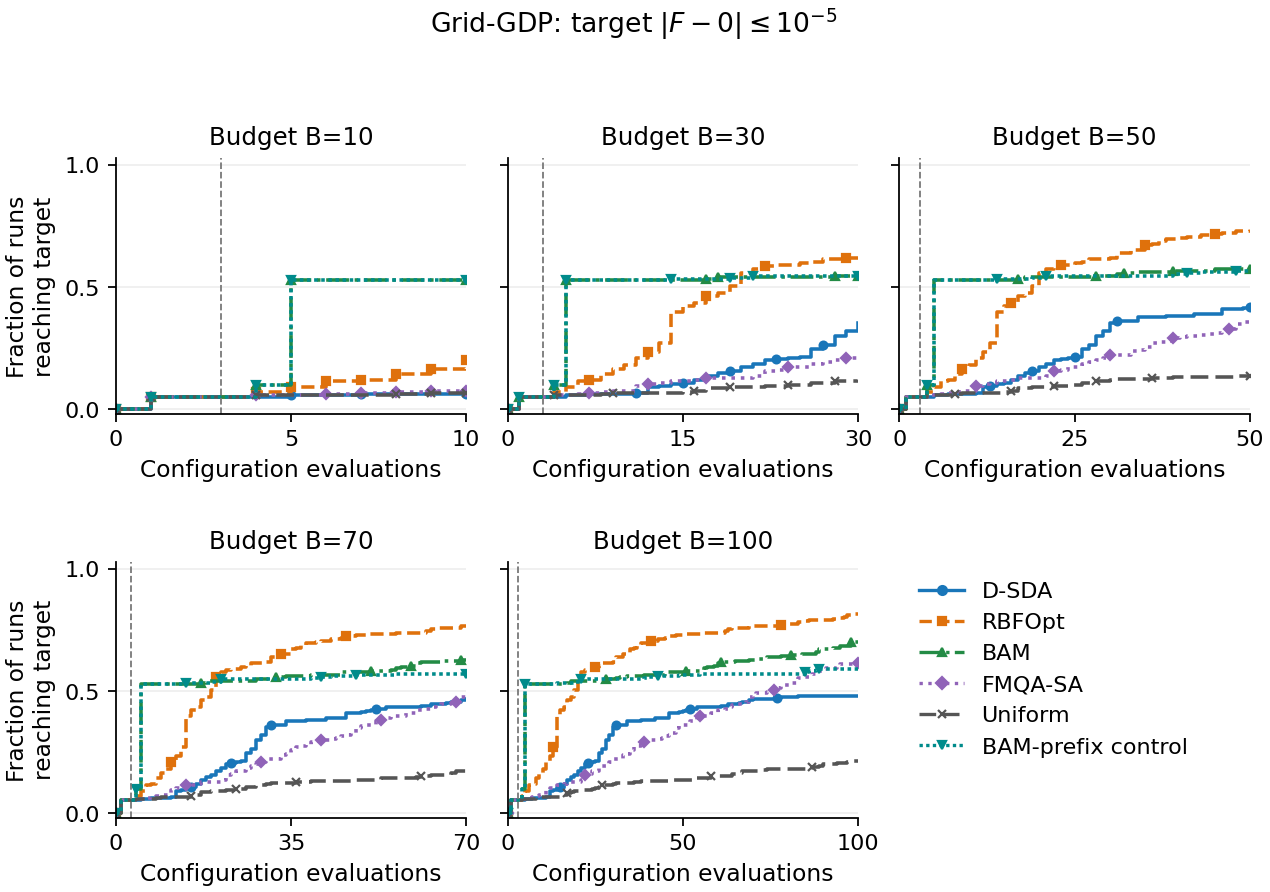
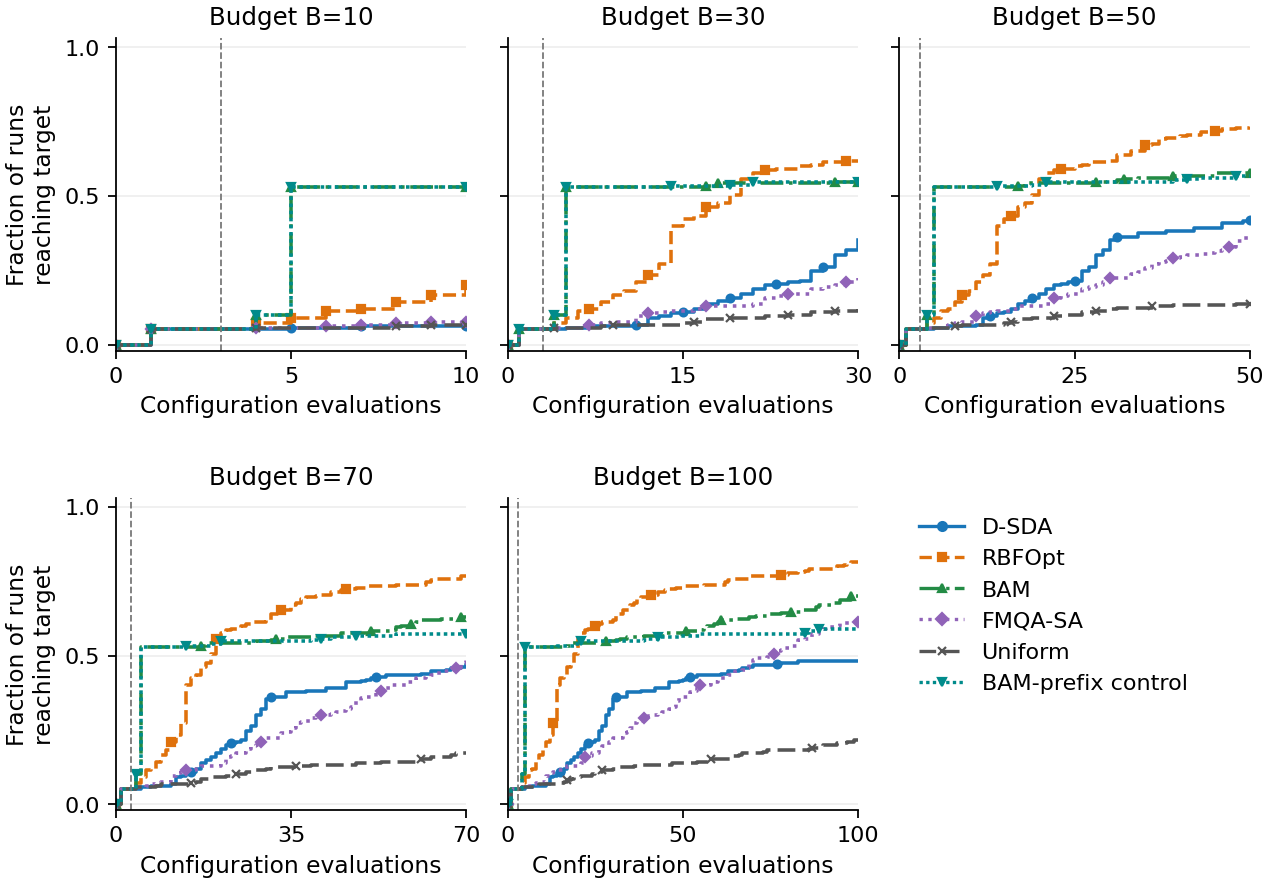
Remove the title inside the Grid evaluation figure

diff --git a/review_comparison/grid_presentation.py b/review_comparison/grid_presentation.py
@@ -127,8 +127,7 @@ def render(curves, out):
         handles = [Line2D([], [], color=m.COLOR[k], ls=m.STYLE[k], marker=m.MARK[k],
                           ms=4, lw=1.5, label=m.LABEL[k]) for k in m.GRID]
         axs.flat[-1].legend(handles=handles, loc="upper left", frameon=False, fontsize=10)
-        fig.suptitle(r"Grid-GDP: target $|F-0|\leq 10^{-5}$", fontsize=12)
-        fig.tight_layout(rect=(0, 0, 1, .95), h_pad=1.8, w_pad=.8)
+        fig.tight_layout(h_pad=1.8, w_pad=.8)
         name = out / "figure_B_grid_evaluation_profiles"
         fig.savefig(name.with_suffix(".pdf"), bbox_inches="tight", pad_inches=.04,
                     metadata={"CreationDate": None, "ModDate": None})
@@ -156,7 +155,8 @@ def build(directory, out):
 This is a presentation update using completed experiments; no searches or solvers are run.
 The input is the archived D-SDA publication analysis from 28 October 2026.
 Its input hashes, all 6,300 primary Grid run slots, and all 30 evaluation curves are verified before rendering.
-The figure retains every archived curve coordinate and method style, labels configuration evaluations and the target explicitly, and removes the prefix shading and legend notes.
+The figure retains every archived curve coordinate and method style, clarifies the axis labels, and removes the prefix shading and legend notes.
+The target is specified in the manuscript caption, without a title inside the figure.
 The target is agreement with the normalized reference zero within an absolute tolerance of 1e-5.
 
 The cost table uses all 210 runs per method at B=100, including target misses.

diff --git a/docs/grid_presentation_update_20261029.md b/docs/grid_presentation_update_20261029.md
@@ -1,6 +1,7 @@
 # Grid figure and cost-table review update
 
-David's Grid figure comment is addressed by explicit axis labels and the normalized target, removal of the prefix shading and legend notes, and a caption linked to the existing definitions.
+David's Grid figure comment is addressed by explicit axis labels, removal of the prefix shading and legend notes, and a caption linked to the existing definitions.
+The normalized target is stated in the caption, without a title inside the figure.
 His Grid cost-table comment is addressed by reporting Q50 [Q25, Q75] for each time component and defining the target and configuration-evaluation cost in the caption.
 The [new presentation outputs](../results/grid_presentation_20261029/README.md) use the [existing D-SDA publication records](../results/dsda_publication_20261028/README.md).
 The original analysis code, execution archives, results, and manifests are unchanged.

diff --git a/results/grid_presentation_20261029/README.md b/results/grid_presentation_20261029/README.md
@@ -3,7 +3,8 @@
 This is a presentation update using completed experiments; no searches or solvers are run.
 The input is the archived D-SDA publication analysis from 28 October 2026.
 Its input hashes, all 6,300 primary Grid run slots, and all 30 evaluation curves are verified before rendering.
-The figure retains every archived curve coordinate and method style, labels configuration evaluations and the target explicitly, and removes the prefix shading and legend notes.
+The figure retains every archived curve coordinate and method style, clarifies the axis labels, and removes the prefix shading and legend notes.
+The target is specified in the manuscript caption, without a title inside the figure.
 The target is agreement with the normalized reference zero within an absolute tolerance of 1e-5.
 
 The cost table uses all 210 runs per method at B=100, including target misses.
